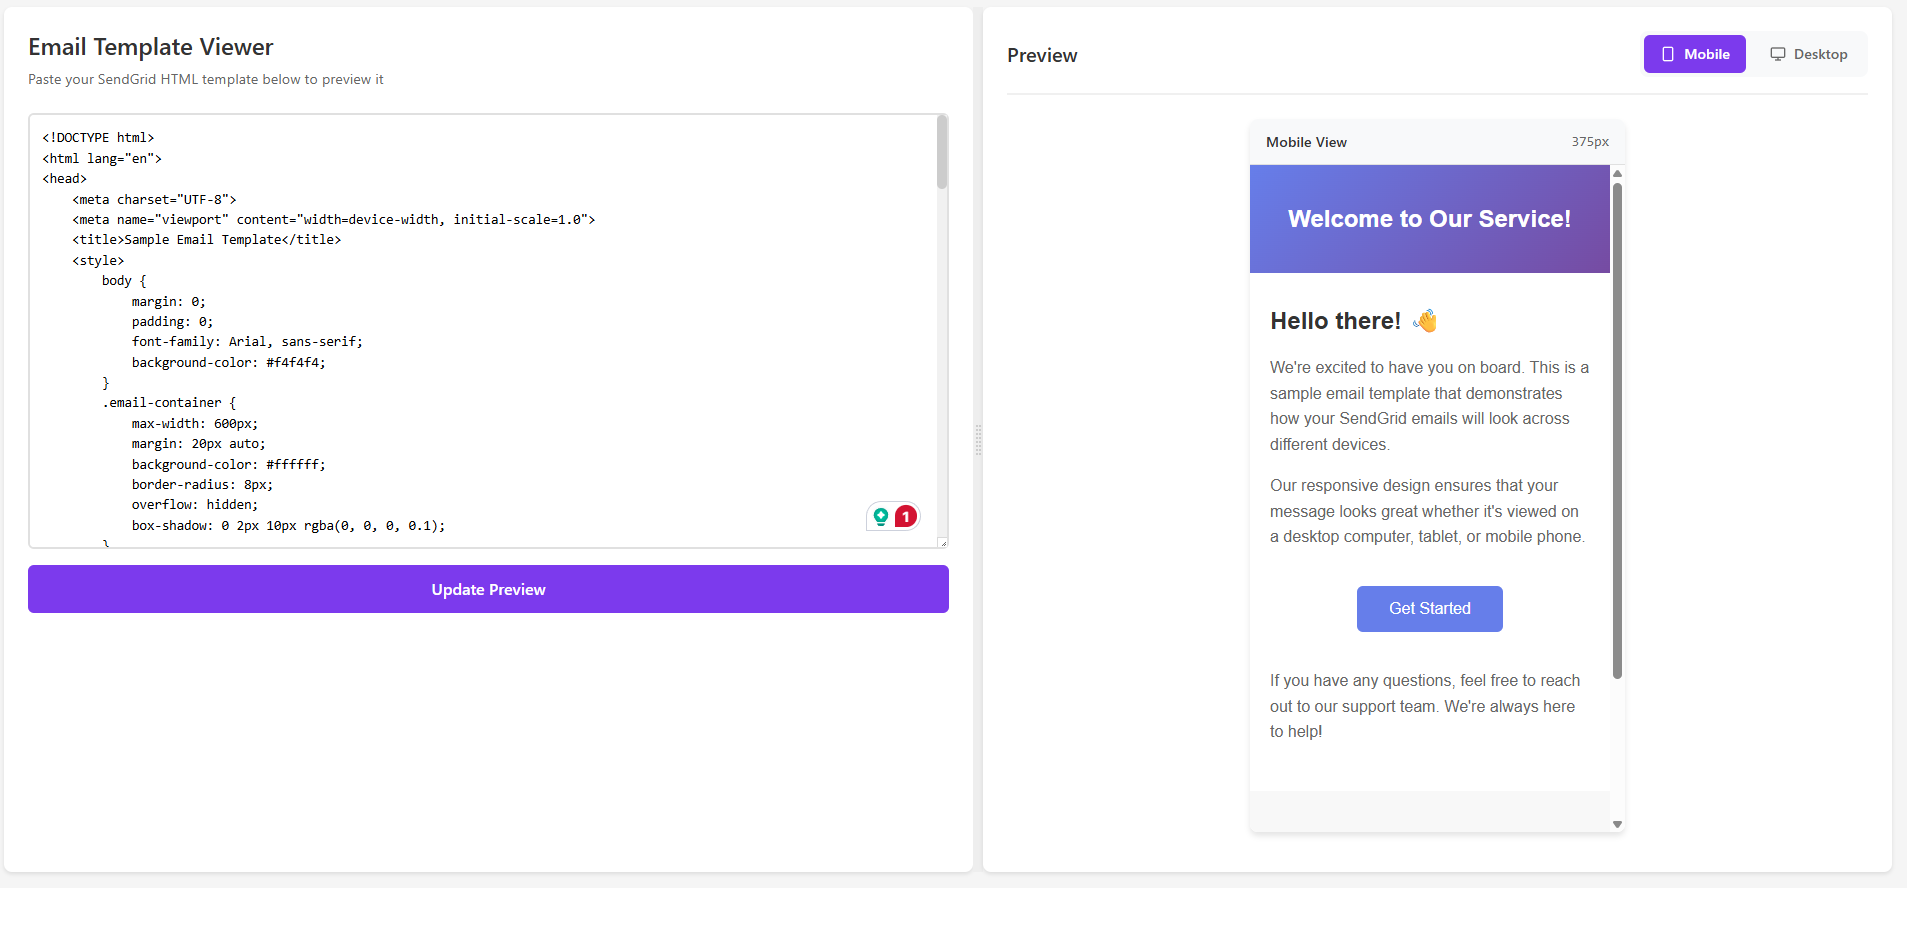
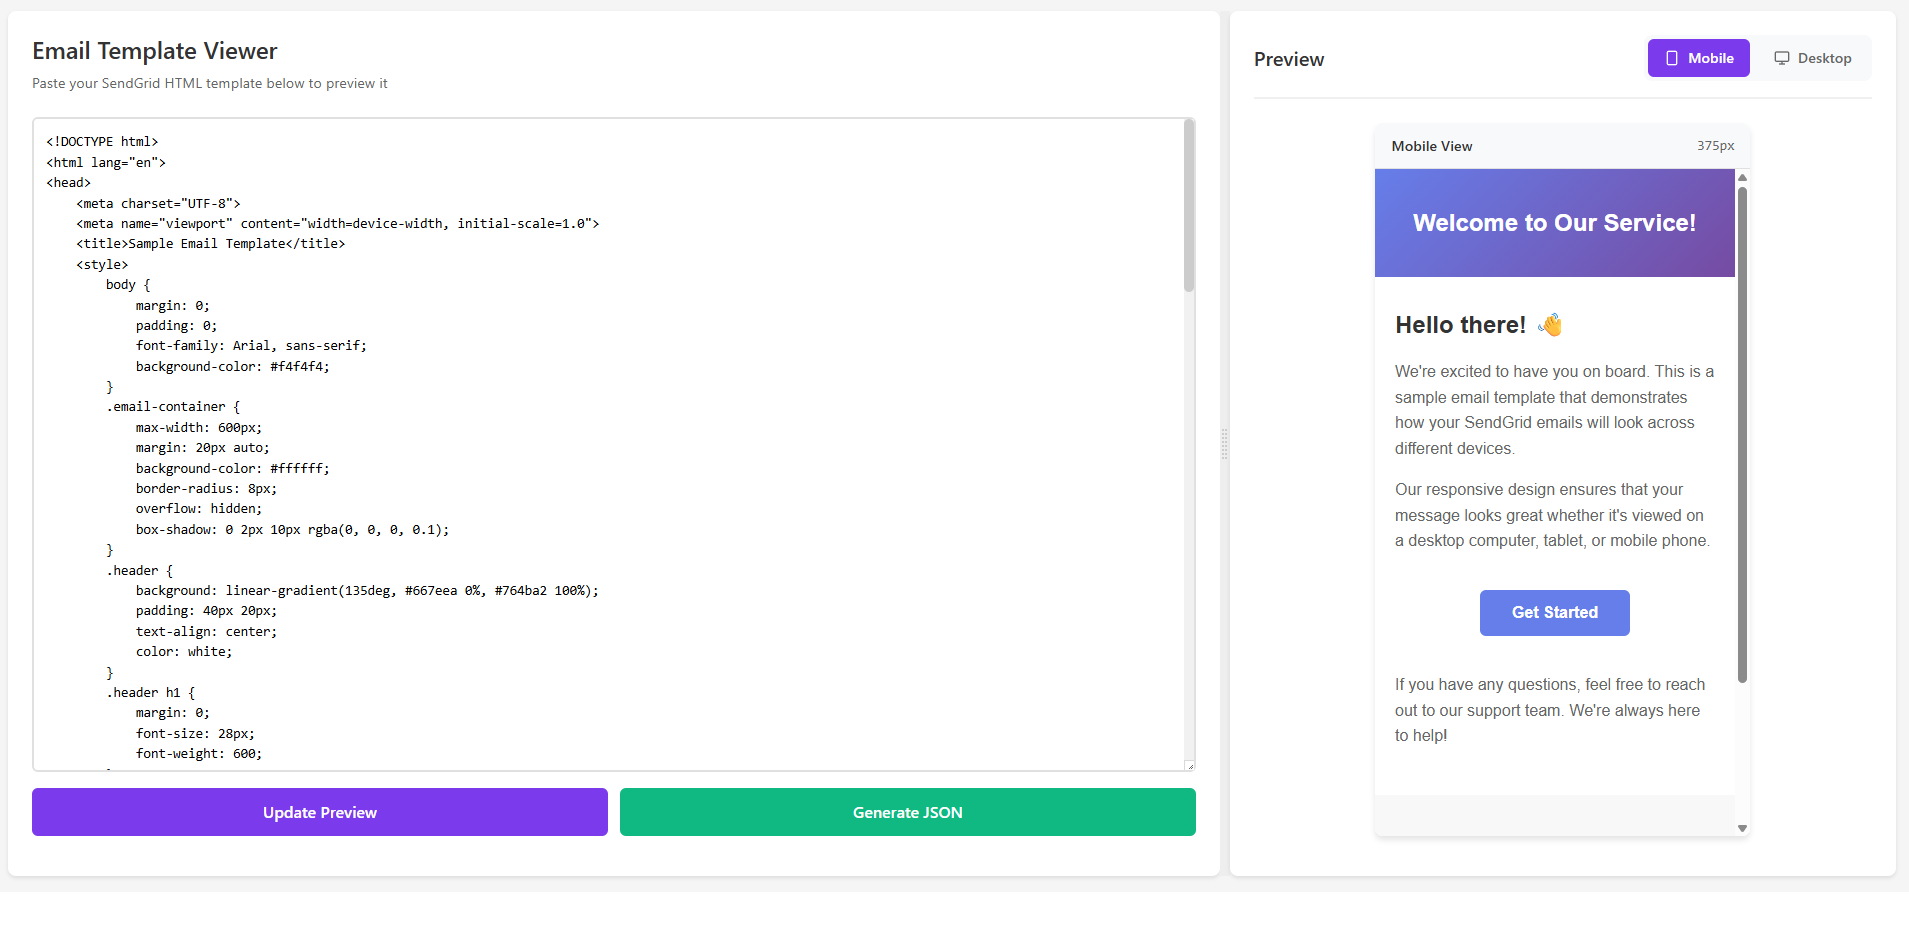
Adjust layout proportions and input area styling
- Increased the first SplitterSection size to 60 and reduced the second to 40 in Home.razor to adjust layout proportions.
- Increased textarea minimum height from 300px to 400px and added flex: 1 for better responsiveness in Home.razor.css.
- Replaced or modified the App_View.png binary file.

diff --git a/EmailTemplateViewer/Components/Pages/Home.razor.css b/EmailTemplateViewer/Components/Pages/Home.razor.css
@@ -35,7 +35,8 @@
     font-family: 'Consolas', 'Monaco', 'Courier New', monospace;
     font-size: 0.85rem;
     resize: vertical;
-    min-height: 300px;
+    min-height: 400px;
+    flex: 1;
     margin-bottom: 1rem;
 }
 
